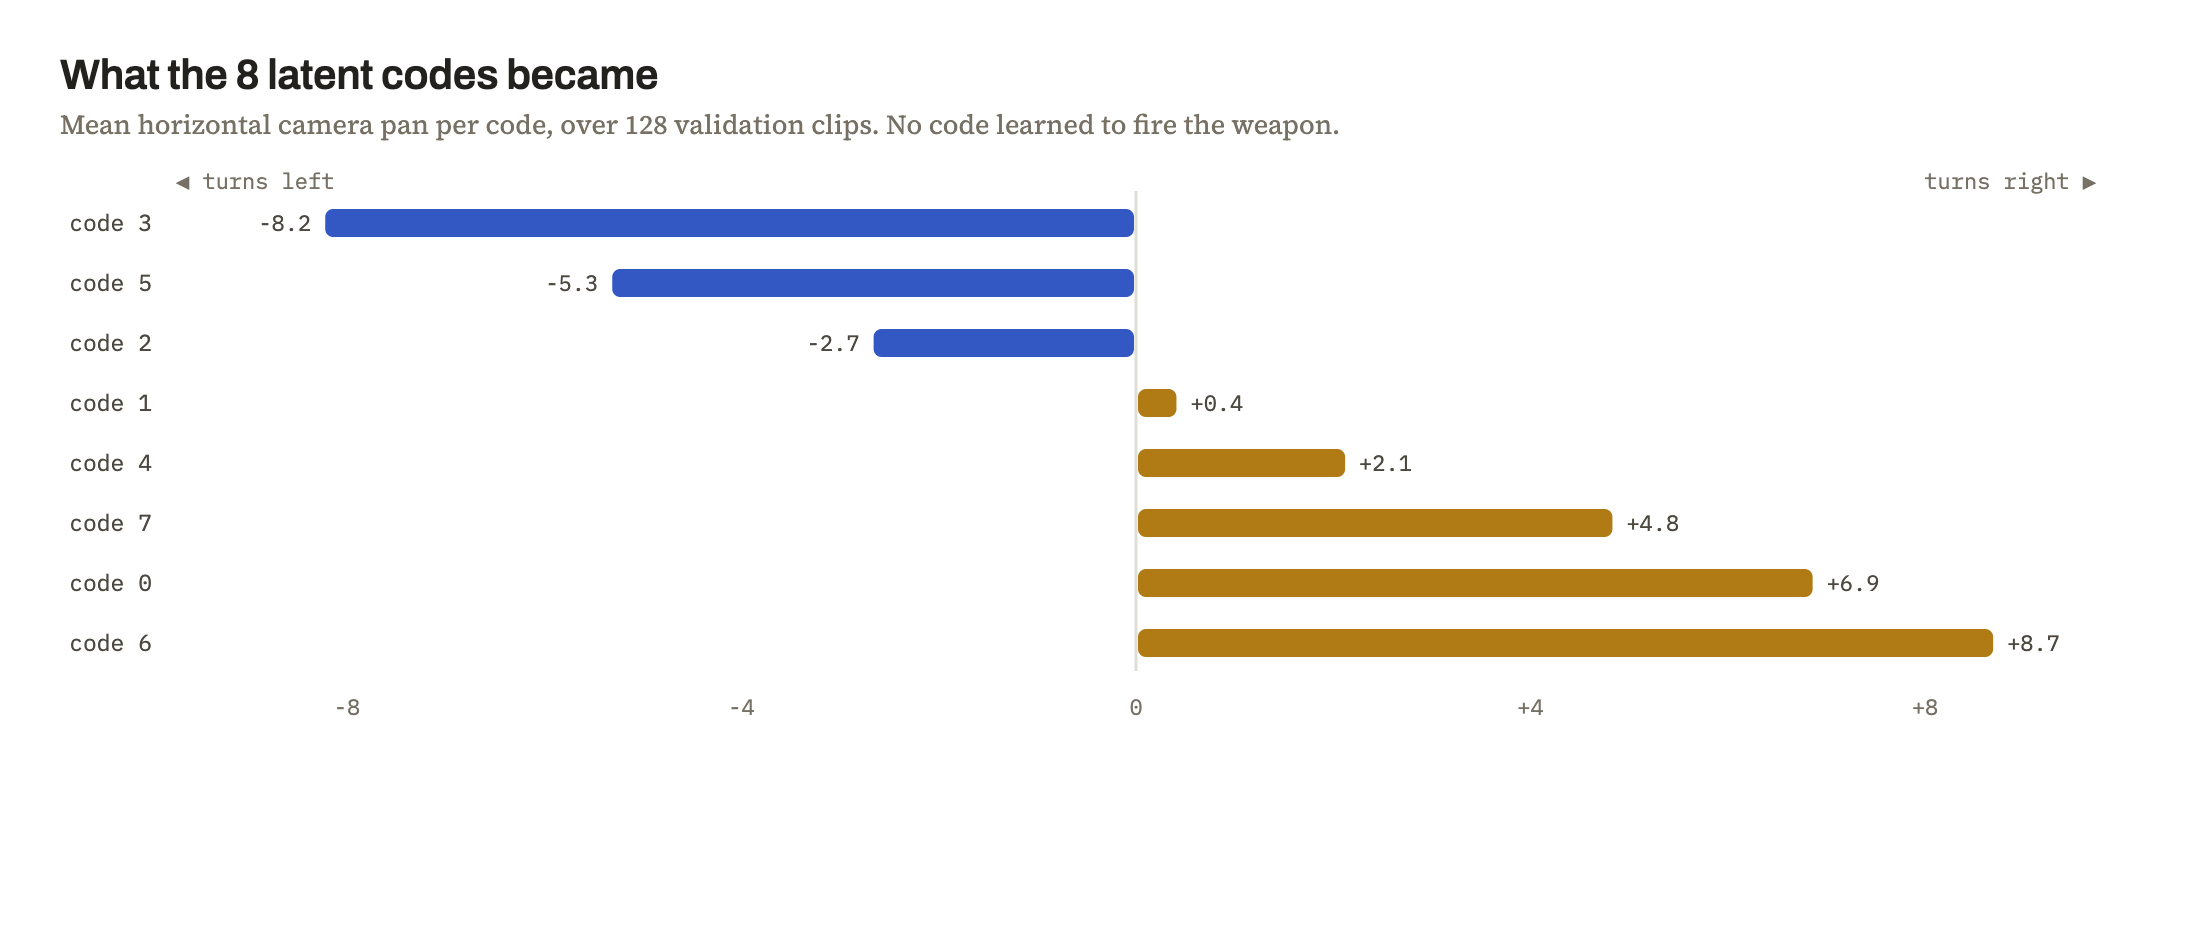
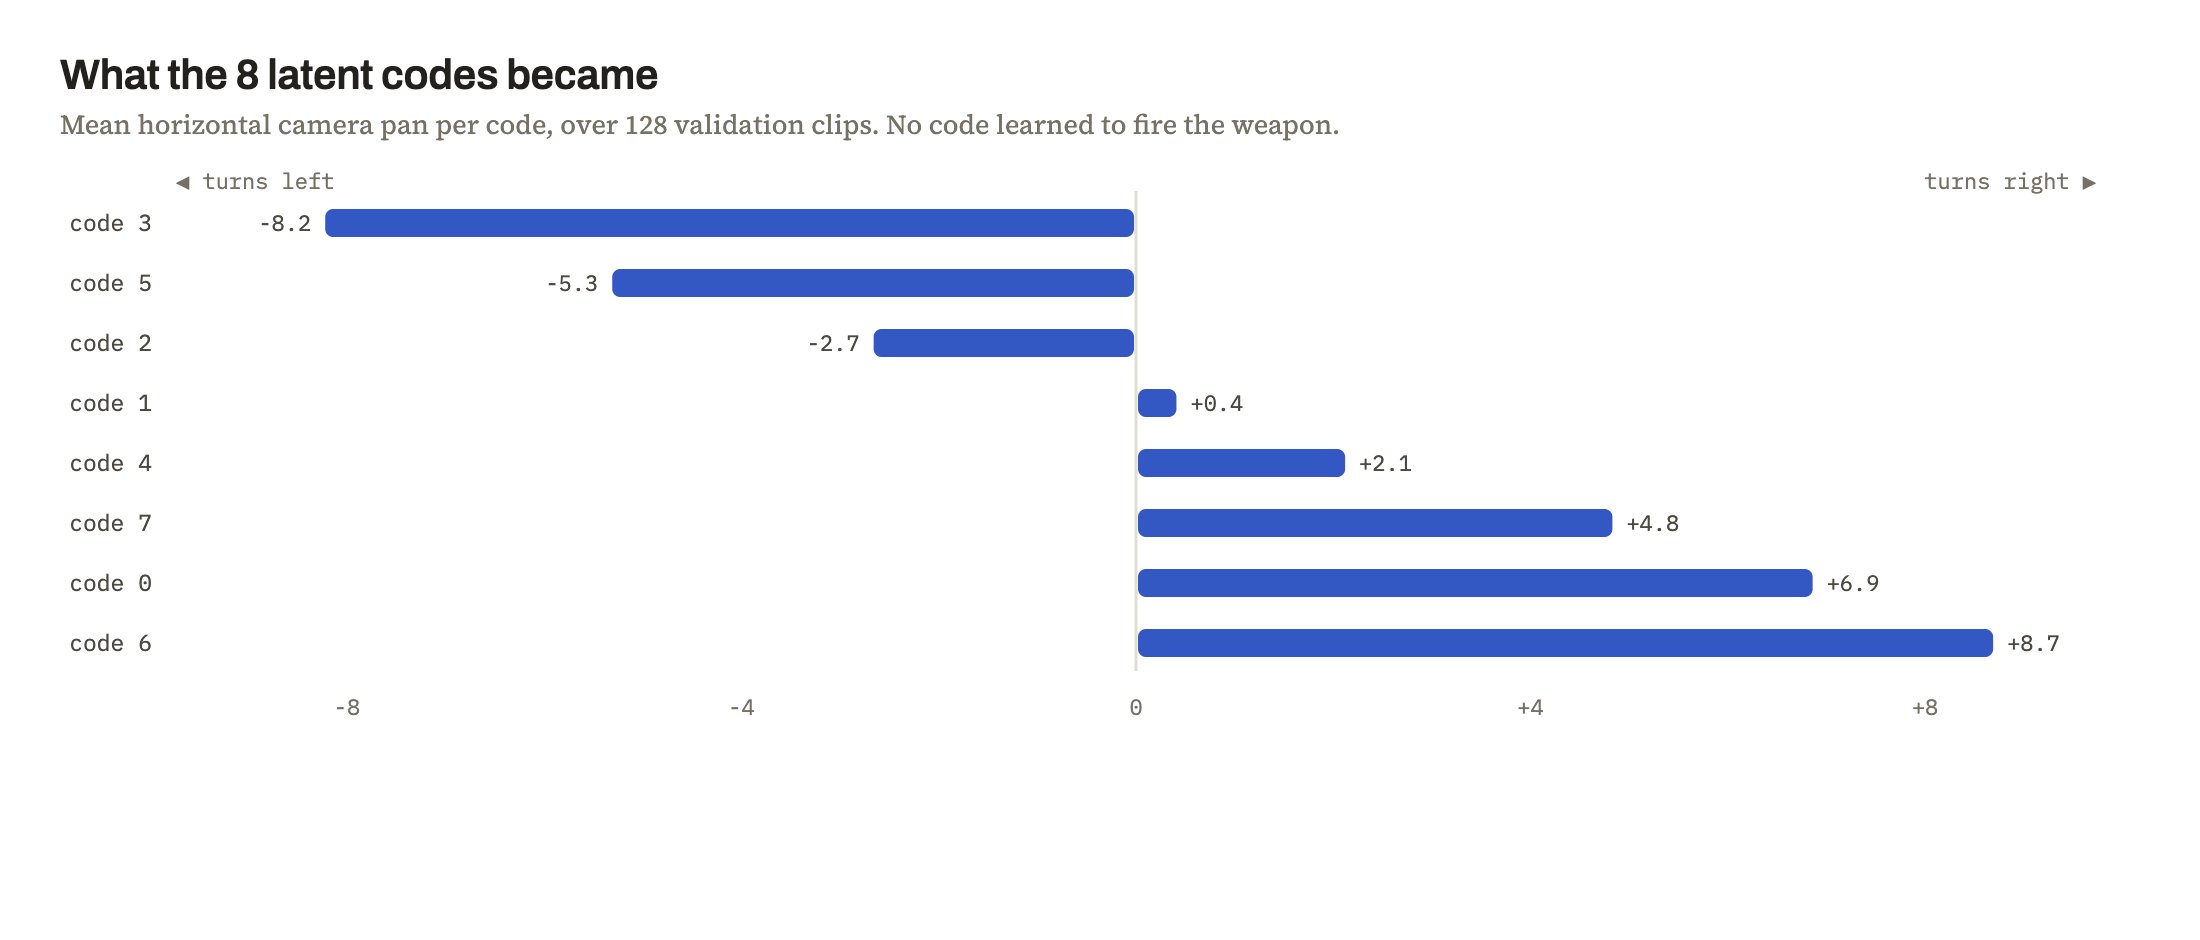
Put every figure on a single blue system
One hue across the page. Solid blue carries our measurements. Anything they
are compared against is the same blue held back: a dashed line for the
whole-frame regime, a pale fill with a dashed outline for the copy-last-frame
baseline and for Genie's reported sizes, which is the convention the frames
figure already used. The pan chart drops its second hue, since the axis
already says which way a code turns, and the three frame-count bars are one
colour, since they are three models rather than a comparison.

Changed region(s): [[0.4945, 0.4011, 0.9273, 0.7096]]

diff --git a/docs/article.css b/docs/article.css
@@ -94,7 +94,7 @@ figcaption { font: 12px/1.65 var(--sans); color: var(--secondary); margin-top: 1
 .chart-legend span { display: inline-flex; align-items: center; gap: 7px; }
 .chart-legend i { width: 9px; height: 9px; border-radius: 50%; }
 .ours-key, .ours-dot { background: #3358c4; fill: #3358c4; }
-.paper-key, .paper-dot { background: #b07a14; fill: #b07a14; }
+.paper-key, .paper-dot { background: #8ea9ee; fill: #8ea9ee; }
 .model-chart, .frame-chart { display: block; width: 100%; height: auto; margin: 14px 0 16px; overflow: visible; }
 .chart-grid { stroke: var(--soft-rule); stroke-width: 1; fill: none; }
 .chart-labels, .chart-values { fill: var(--secondary); font-family: var(--sans); font-size: 14px; }
